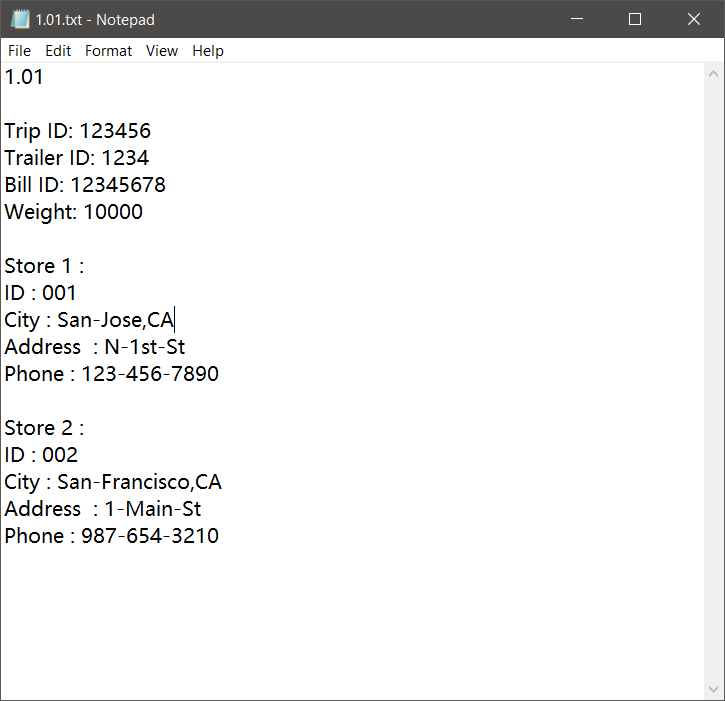
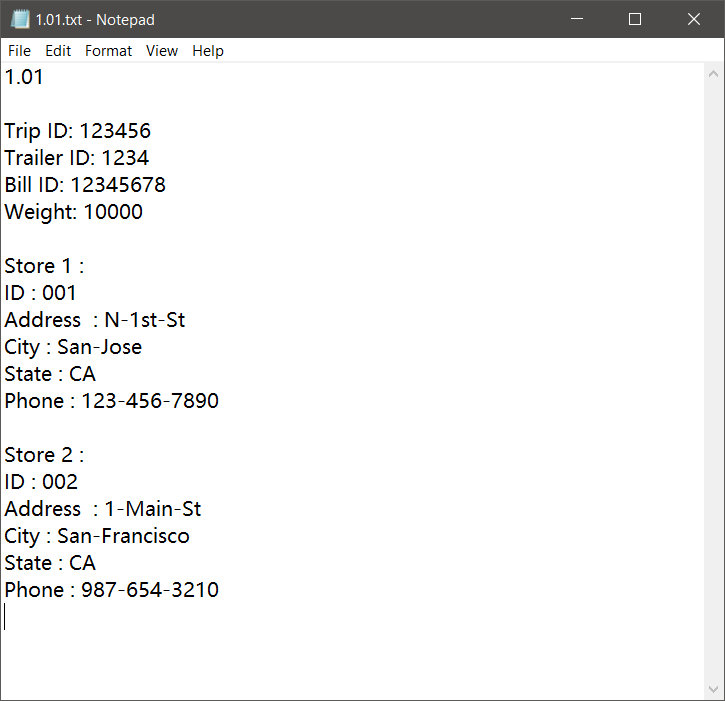
10/04 update

Changed region(s): [[0.0, 0.4194, 0.3034, 0.719], [0.0, 0.7489, 0.3034, 0.8688]]

diff --git a/src/History.java b/src/History.java
@@ -17,6 +17,7 @@ public class History {
 
     public static final String Store_FILE = "StoreInfo.csv";
 
+    // Main
     public static void main(String[] args) throws IOException, CsvException {
 
         Scanner keyboard = new Scanner(System.in);
@@ -59,11 +60,12 @@ public class History {
 
                     String storeline = checkCSV(storeID);
                     if (!storeline.equals("NS")) {
-                        String storefields[] = storeline.split(",");
-                        System.out.println("Store " + storefields[0].replace("\"", "") + " :");
-                        System.out.println("The City of Store is " + storefields[1].replace("\"", "")+ ".");
-                        System.out.println("The address of Store is " + storefields[2].replace("\"", "")+ ".");
-                        System.out.println("The phone number of Store is " + storefields[3].replace("\"", "")+ ".");
+                        String storefields[] = storeline.split(",");     
+                        System.out.println("Store " + storefields[0].replace("\"", "") + " :");               
+                        System.out.println("The address of Store " + storeID +" is " + storefields[1].replace("\"", "")+ ".");
+                        System.out.println("The City of Store " + storeID +" is " + storefields[2].replace("\"", "")+ ".");
+                        System.out.println("The State of Store " + storeID +" is " + storefields[3].replace("\"", "")+ ".");
+                        System.out.println("The phone number of Store " + storeID +" is " + storefields[4].replace("\"", "")+ ".");
                     }else{
                         System.out.println("There isn't a store with ID "+storeID+" on file.");
                     }
@@ -78,7 +80,7 @@ public class History {
                     break;
 
                 case "add":
-                    System.out.println(addManifest());
+                    System.out.println(addRecord());
                     break;
 
                 default:
@@ -95,6 +97,7 @@ public class History {
         keyboard.close();
     }
 
+    // Total Store function
     private static int totalStore() {
 		int totalStore = 0;
 		
@@ -155,6 +158,7 @@ public class History {
 		return totalStore;
 	}
 
+    // Total Store without duplicate function
     private static int totalStoresWithoutDuplicate() {
         int StoreNum = 0;
 
@@ -175,6 +179,7 @@ public class History {
         return StoreNum;
     }
 
+    // View stored record function
     private static String view(int year, double date) {
         String fileName = year + "\\\\" + date + ".txt";
         File checkFile = new File(fileName);
@@ -190,7 +195,7 @@ public class History {
                 System.exit(0);
             }
 
-            System.out.println("This is the manifest for " + date + " in " + year);
+            System.out.println("This is the record for " + date + " in " + year);
             while (inputStream.hasNextLine()) {
                 String text = inputStream.nextLine();
                 System.out.println(text);
@@ -202,7 +207,8 @@ public class History {
         return null;
     }
 
-    private static String addManifest() throws IOException ,CsvException{
+    // Add new delivery record function
+    private static String addRecord() throws IOException ,CsvException{
         String Trip, Bill, trailerWeight, trailer;
         double stores, date;
         int year;
@@ -245,9 +251,10 @@ public class History {
         try {
             outputStream = new PrintWriter(fileName);
 
-            String store;
-            String city ;
+            String storeID;
             String address;
+            String city;
+            String state;
             String phone;
 
             outputStream.println(str);
@@ -258,52 +265,67 @@ public class History {
             outputStream.println("Weight: " + trailerWeight);
 
             for (int i = 1; i <= stores; i++) {
-                System.out.println("What is the Store ID for Stop " + i + " ?");
-                store = input.next();
 
-                String line = checkCSV(store);
+                Store newStore = null;
+
+                System.out.println("What is the Store ID for Stop " + i + " ?");
+                storeID = input.next();
+
+                String line = checkCSV(storeID);
                 
                 if (!line.equals("NS")) {
                     String fields[] = line.split(",");
-                    System.out.println("The City of Store " + store +" is " + fields[1].replace("\"", ""));
-                    System.out.println("The address of Store " + store +" is " + fields[2].replace("\"", ""));
-                    System.out.println("The phone number of Store " + store +" is " + fields[3].replace("\"", ""));
+                    System.out.println("The address of Store " + storeID +" is " + fields[1].replace("\"", ""));
+                    System.out.println("The City of Store " + storeID +" is " + fields[2].replace("\"", ""));
+                    System.out.println("The State of Store " + storeID +" is " + fields[3].replace("\"", ""));
+                    System.out.println("The phone number of Store " + storeID +" is " + fields[4].replace("\"", ""));
                     System.out.println("Are these info correct?(Y/N)");
                     if (input.next().charAt(0) == 'Y') {
-                        city = fields[1].replace("\"", "");
-                        address = fields[2].replace("\"", "");
-                        phone = fields[3].replace("\"", "");
+                        address = fields[1].replace("\"", "");
+                        city = fields[2].replace("\"", "");
+                        state = fields[3].replace("\"", "");
+                        phone = fields[4].replace("\"", "");
                     } else {
-                        System.out.println("What is the City of Store " + i + " ?");
-                        city = input.next();
-
                         System.out.println("What is the address of Store " + i + " ? (use '-' instead of space)");
                         address = input.next();
 
+                        System.out.println("What is the City of Store " + i + " ?");
+                        city = input.next();
+
+                        System.out.println("What is the State of Store " + i + " ?");
+                        state = input.next();
+
                         System.out.println("What is the phone number of Store " + i + " ?");
                         phone = input.next();
-                        deleteCSV(store);
-                        addCSV(store, city, address, phone);
+
+                        newStore = new Store(storeID,address,city,state,phone);
+                        deleteCSV(storeID);
+                        addCSV(newStore);
 
                     }
                 }
                 else {
-                    System.out.println("What is the City of this Store " + i + " ?");
-                    city = input.next();
-
                     System.out.println("What is the address of Store " + i + " ? (use '-' instead of space)");
                     address = input.next();
 
+                    System.out.println("What is the City of Store " + i + " ?");
+                    city = input.next();
+
+                    System.out.println("What is the State of Store " + i + " ?");
+                    state = input.next();
+
                     System.out.println("What is the phone number of Store " + i + " ?");
                     phone = input.next();
-                    addCSV(store, city, address, phone);
+                    newStore = new Store(storeID,address,city,state,phone);
+                    addCSV(newStore);
                 }
 
                 outputStream.println("");
                 outputStream.println("Store " + i + " :");
-                outputStream.println("ID : " + store);
-                outputStream.println("City : " + city);
+                outputStream.println("ID : " + storeID);
                 outputStream.println("Address  : " + address);
+                outputStream.println("City : " + city);
+                outputStream.println("State : " + state);
                 outputStream.println("Phone : " + phone);
 
             }
@@ -316,9 +338,10 @@ public class History {
         }
 
         outputStream.close();
-        return "The new manifest has successfully created.";
+        return "The new record has been successfully created.";
     }
 
+    // Function to create a new csv file 
     private static void createCSV() throws IOException{
         File file = new File(Store_FILE);
 
@@ -326,22 +349,24 @@ public class History {
 
         CSVWriter createwriter = new CSVWriter(outputfile);
 
-        String[] header = { "Store ID", "City", "Address", "Phone" };
+        String[] header = { "Store ID", "Address","City", "State", "Phone" };
         createwriter.writeNext(header);
 
         createwriter.close();
     }
 
-    private static void addCSV(String ID, String address, String city, String phone) throws IOException {
+    // Function to add a new store info in csv
+    private static void addCSV(Store newStore) throws IOException {
         CSVWriter addwriter = new CSVWriter(new FileWriter(Store_FILE, true));
 
-        String[] record = (ID + "," + address + "," + city + "," + phone).split(",");
+        String[] record = {newStore.getId(), newStore.getAddress(), newStore.getCity(),newStore.getState(),newStore.getPhone()};
 
         addwriter.writeNext(record);
 
         addwriter.close();
     }
 
+    // Function to check the stored store info in csv
     private static String checkCSV(String ID) {
         Scanner checkinput = null;
         try {
@@ -351,18 +376,17 @@ public class History {
         }
        
         while (checkinput.hasNextLine()) {
-            
             String line = checkinput.nextLine();
             String fields[] = line.split(",");
             
             if (fields[0].replace("\"", "").equals(ID)){
                 return line;
-            }
-            
+            } 
         }
         return "NS";
     }
 
+    // Function to delete a stored store info in csv
     private static void deleteCSV(String ID) throws IOException, CsvException {
         int rowNumber = 0;
 
@@ -374,7 +398,6 @@ public class History {
         }
        
         while (deleteinput.hasNextLine()) {
-            
             String line = deleteinput.nextLine();
             String fields[] = line.split(",");
             
@@ -383,7 +406,6 @@ public class History {
             }
             rowNumber++;
         }
-
         CSVReader deletereader = new CSVReader(new FileReader(Store_FILE));
         List<String[]> allElements = deletereader.readAll();
         allElements.remove(rowNumber);
@@ -391,7 +413,5 @@ public class History {
         CSVWriter deletewriter = new CSVWriter(sw);
         deletewriter.writeAll(allElements);
         deletewriter.close();
-
     }
-
 }

diff --git a/src/Store.java b/src/Store.java
@@ -1,42 +1,49 @@
 public class Store {
 	
-    private int id;
-    private String city;
+    private String id;
     private String address;
+    private String city;
+    private String state;
     private String phone;
-    
+
     // constructors
-    public Store(int id, String city,String address,String phone) {
+    public Store(String id,String address, String city,String state,String phone) {
         this.id = id;
-        this.city = city;
         this.address = address;
+        this.city = city;
+        this.state = state;
         this.phone = phone;
     }
     
     //accessors
-    public int getId() {
+    public String getId() {
         return id;
+    }
+    public String getAddress() {
+        return address;
     }
     public String getCity() {
         return city;
     }
-    public String getAddress() {
-        return address;
+    public String getState(){
+        return state;
     }
     public String getPhone() {
         return phone;
     }
 
-    
     //mutators
-    public void setId(int id) {
+    public void setId(String id) {
         this.id = id;
+    }
+    public void setAddress(String address) {
+        this.address = address;
     }
     public void setCity(String city) {
         this.city = city;
     }
-    public void setAddress(String address) {
-        this.address = address;
+    public void setState(String state) {
+        this.state = state;
     }
     public void setPhone(String phone) {
         this.phone = phone;
